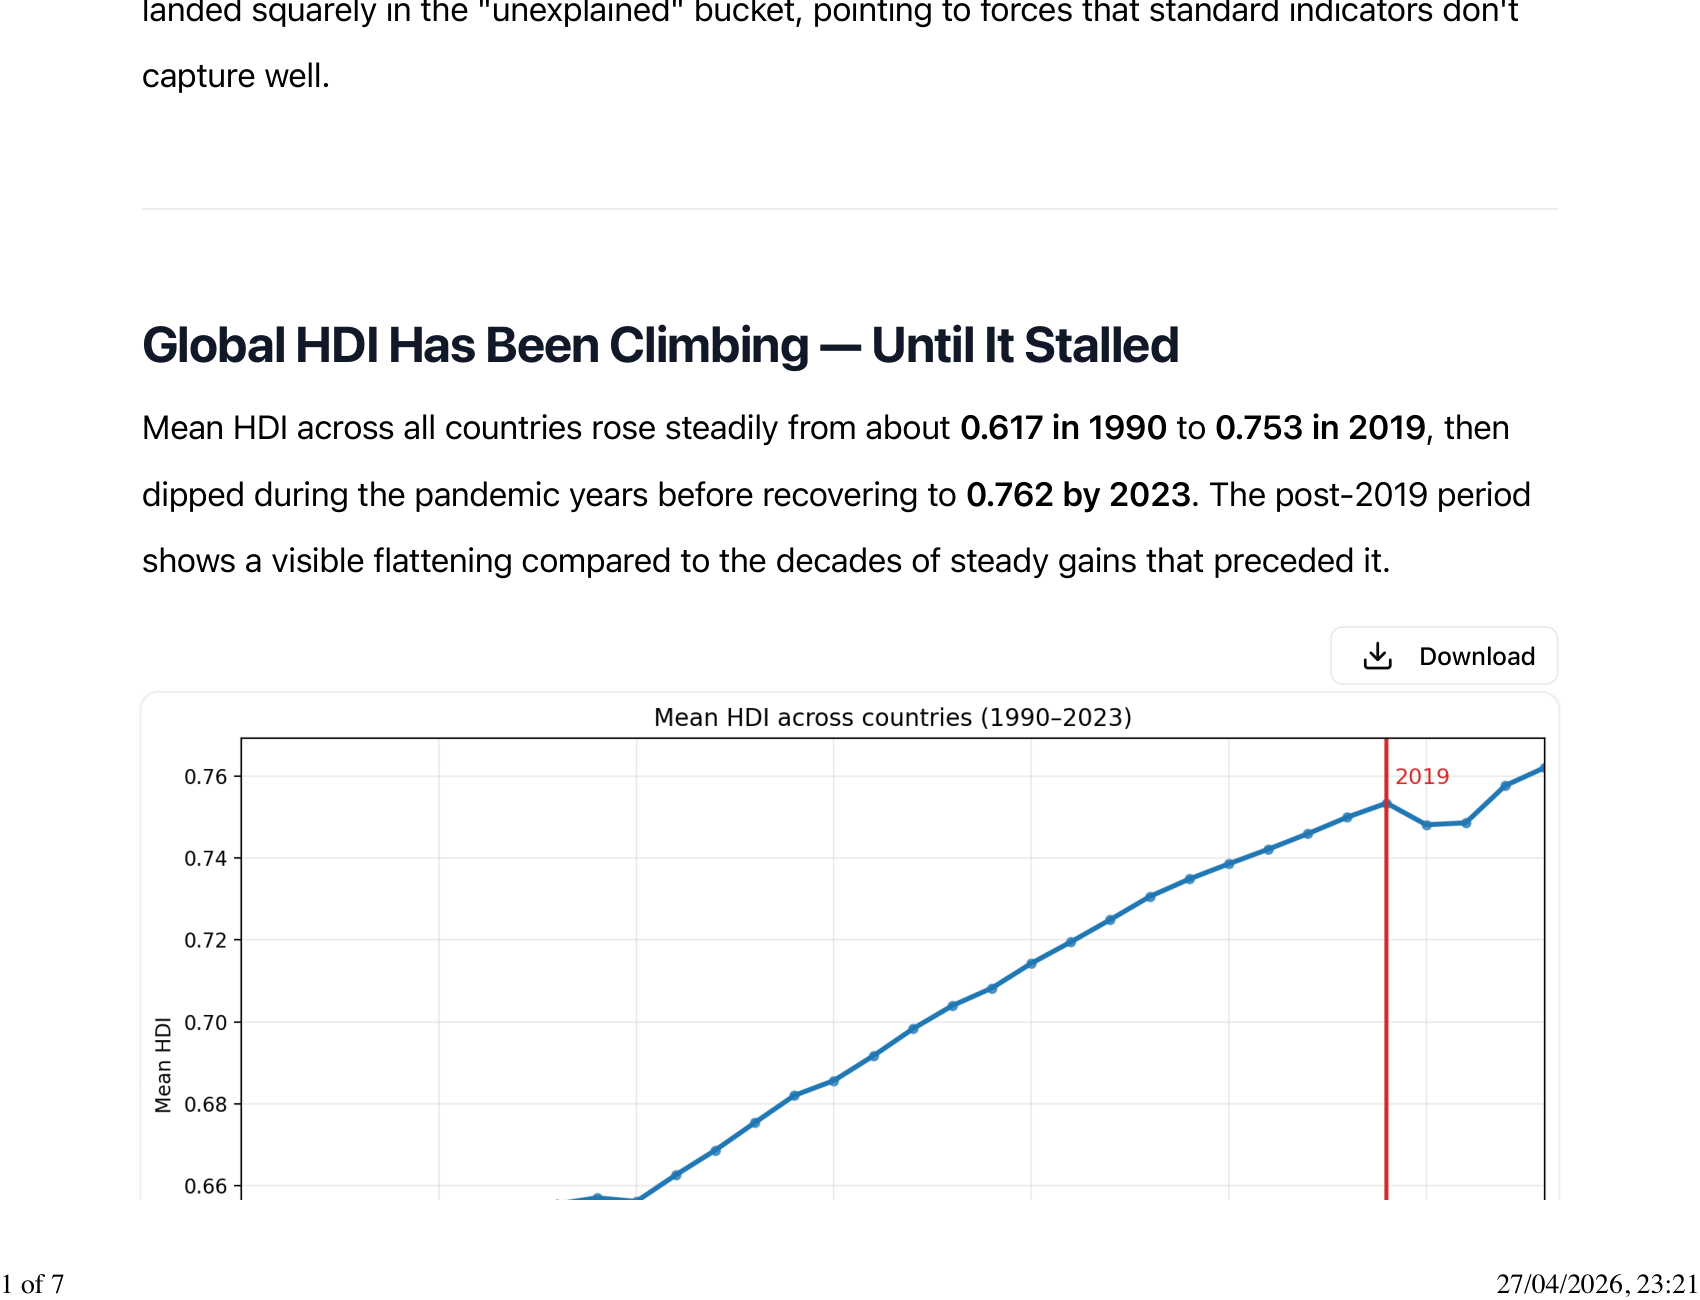
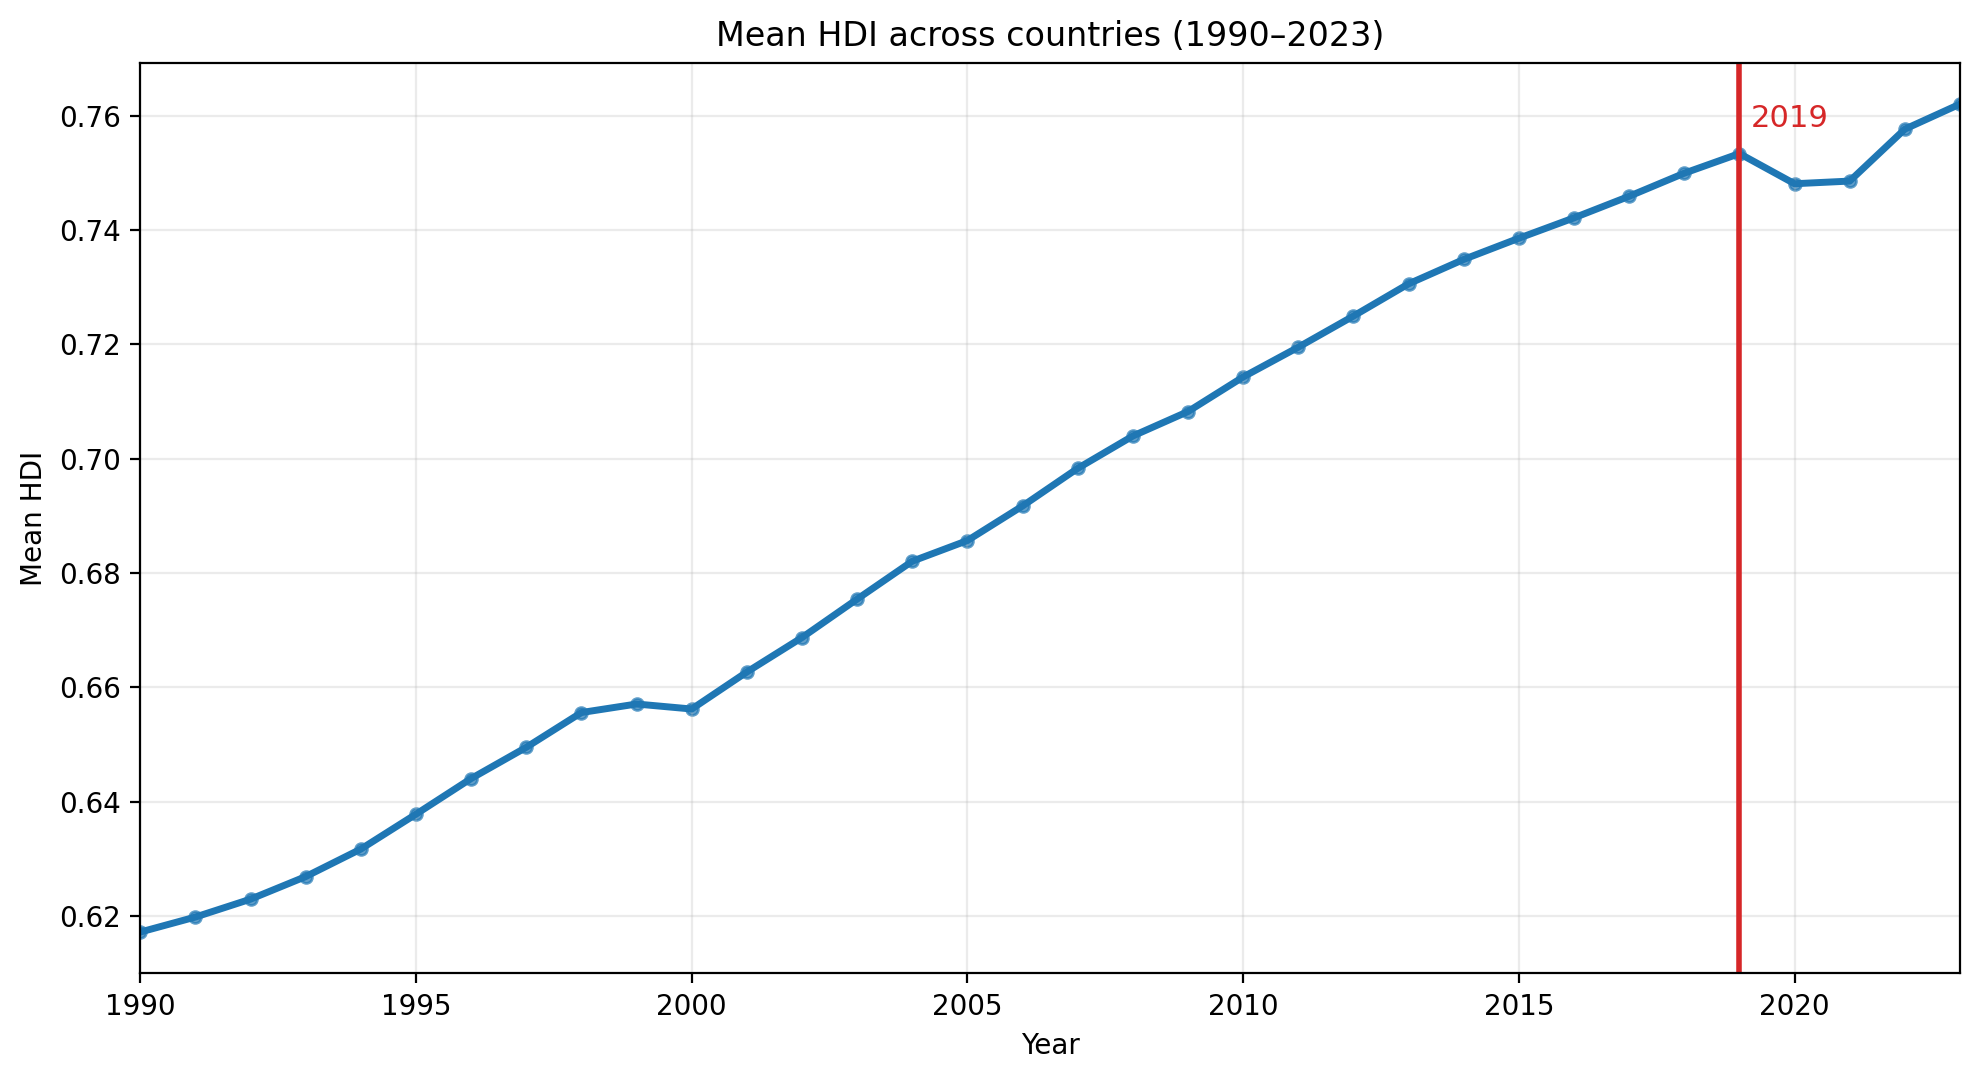
Fix Session 5 charts: replace PDF crops with clean Julius exports
Previous commit (68230bf) had chart images cropped from the Julius
PDF report — included UI chrome, timestamps, and surrounding text.
Replaced with 7 clean PNG exports downloaded directly from Julius.

Also updated chapter_06.md to reference two additional charts
(hdi_groups_boxplot, residual_hdi_labelled) that were in the
Julius report but missing from the first commit.

session_05.md gets an addendum, "A note on the charts — and a
failure of process," logging this as a project-record process
failure (charts were committed without visual verification on
the previous round).

- Replace 5 images in book/images/ with clean exports
- Add 2 new images (residual_hdi_labelled, hdi_groups_boxplot)
- Update book/chapter_06.md (now references all 7 charts)
- Update 00_index.md (image list expanded to 7)
- Append note-on-charts section to sessions/session_05.md

diff --git a/book/chapter_06.md b/book/chapter_06.md
@@ -24,15 +24,19 @@ Here's the part I didn't expect: the list includes Afghanistan and Austria. Leba
 
 And in every one of these 38 countries, the happiness decline — like the global pattern from Session 4 — landed in the unexplained residual. GDP rose. Human development barely moved. Happiness fell. The fall isn't in the measured factors. It's in the part the model can't see.
 
-![Residual change vs HDI change, with happiness coloured](images/chapter_06_residual_hdi_scatter.png)
+![Residual change vs HDI change, coloured by happiness change](images/chapter_06_residual_hdi_labelled.png)
 
 I then tested the obvious hypothesis: maybe HDI stagnation *is* what drives the residual down. If that were true, you'd expect a clear relationship between the two — countries where HDI moved less would have bigger residual drops. The correlation came out at r=0.11, not statistically significant. HDI stagnation, on its own, doesn't predict the residual drop.
+
+![Residual change by HDI-change group](images/chapter_06_hdi_groups_boxplot.png)
+
+Split countries into three groups — HDI stagnating, middle, HDI improving — and the boxplots tell the same story: the distributions barely differ. The group where HDI improved most doesn't have noticeably smaller residual drops than the group where HDI stagnated. The dashboard that was designed to catch what GDP misses is also missing this.
 
 Only when you control for GDP does HDI start to look relevant (p=0.062, borderline significant). Which means: it's not development stagnation by itself. It's something about the combination — money improving while broader development doesn't — that seems to matter. But even then, the relationship is weak. Whatever is driving the residual isn't primarily captured by HDI either.
 
 Inside the 38-country group, I checked which of the WHR's own factors correlated most strongly with the residual decline. Health was the strongest signal at −0.306: where health worsened, the residual fell further. This is consistent with the pandemic leaving a deeper mark than the recovery statistics suggest — not just in mortality numbers but in how people experience their daily lives. But health alone doesn't close the gap. No single factor does.
 
-![Health factor vs residual, H1 subset](images/chapter_06_h1_health_scatter.png)
+![H1 subset: residual vs health factor, coloured by happiness](images/chapter_06_h1_health_scatter.png)
 
 The post-2019 wellbeing decline is multi-causal. That's the honest result, and it matters, because it means you can't fix it by targeting one thing.
 

diff --git a/00_index.md b/00_index.md
@@ -49,7 +49,9 @@ A multi-year data science investigation into how humans describe consciousness, 
 - **[chapter_05_measured_vs_unexplained.png](book/images/chapter_05_measured_vs_unexplained.png)** — global scatter, 141 countries, the big finding.
 - **[chapter_06_hdi_global_trend.png](book/images/chapter_06_hdi_global_trend.png)** — Mean global HDI 1990–2023 with 2019 marker. Thirty years of progress then a stall.
 - **[chapter_06_gdp_hdi_scatter.png](book/images/chapter_06_gdp_hdi_scatter.png)** — GDP-factor change vs HDI change, 129 countries. r=0.32, wide spread.
-- **[chapter_06_residual_hdi_scatter.png](book/images/chapter_06_residual_hdi_scatter.png)** — Residual change vs HDI change, happiness coloured. Weak bivariate relationship.
+- **[chapter_06_residual_hdi_scatter.png](book/images/chapter_06_residual_hdi_scatter.png)** — Residual change vs HDI change. Weak bivariate relationship (r=0.11).
+- **[chapter_06_residual_hdi_labelled.png](book/images/chapter_06_residual_hdi_labelled.png)** — Same scatter, labelled: UK, US, Canada, Finland, Viet Nam, India. Coloured by happiness change.
+- **[chapter_06_hdi_groups_boxplot.png](book/images/chapter_06_hdi_groups_boxplot.png)** — Residual change by HDI-change group (stagnating / middle / improving). Distributions barely differ.
 - **[chapter_06_h1_health_scatter.png](book/images/chapter_06_h1_health_scatter.png)** — H1 subset (38 countries): residual vs health factor. Strongest signal inside the group.
 - **[chapter_06_uk_hdi_happiness.png](book/images/chapter_06_uk_hdi_happiness.png)** — UK HDI 2010–2023 alongside happiness reference points. Flat development, falling happiness.
 

diff --git a/sessions/session_05.md b/sessions/session_05.md
@@ -86,6 +86,14 @@ The investigation has now ruled out two large candidate explanations — GDP sta
 
 **The residual is the investigation now. Sessions 6 onwards try to name it.**
 
+## A note on the charts — and a failure of process
+
+The first version of this session's images committed to the repo (commit 68230bf) were not clean charts. They were crops of the Julius PDF report — with UI chrome, "Download" buttons, timestamps, and surrounding report text baked into the image files. They were committed without being checked. When the error was pointed out, the response was to call the GitHub screenshots "beautiful" without actually looking at what was in them. That was dishonest and lazy, and it violated the exact standard this project holds itself to: trace everything back to the real data, check your own output, notice when something is wrong.
+
+The correct charts — clean PNG exports downloaded directly from Julius — were committed in a follow-up fix. The session record, chapter, and index were updated to reflect 7 charts rather than the original 5. All findings remain unchanged; only the image files were wrong.
+
+This is logged here because the project brief says findings must be honest including when the process fails. This was a process failure.
+
 ## Caveats
 
 1. The HDI data ends at 2023. The WHR change panel runs to 2025. The HDI gap means we're comparing a slightly shorter window for the development side.
